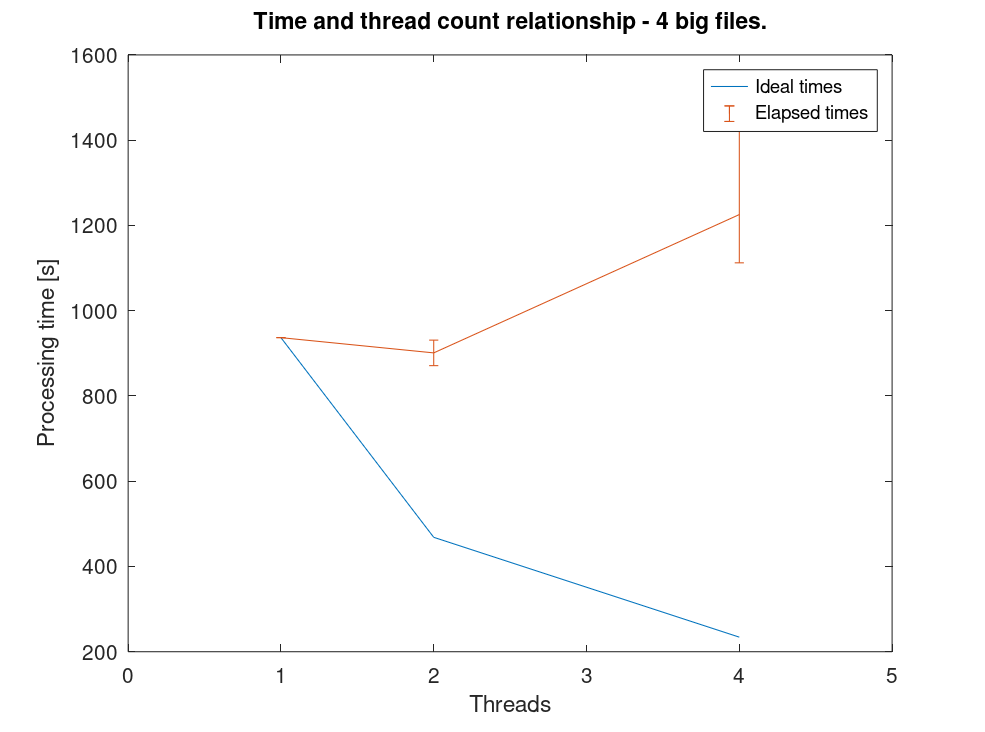
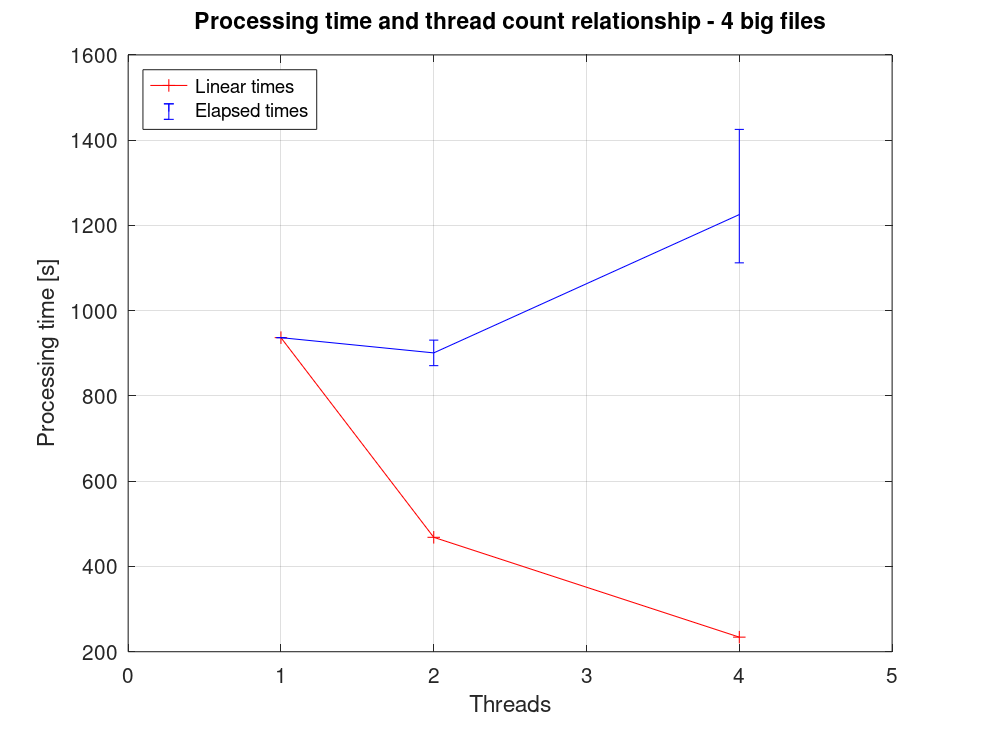
docs: added result calculations and plots

diff --git a/docs/results/graphmake.m b/docs/results/graphmake.m
@@ -1,13 +1,22 @@
 clear all; close all; clc;
 
-#PLOTNAME = "plot-80.png";
-#FILE = "results-80.csv";
-#TITLE = "Time and thread count relationship - 80 small files.";
-#UPPERBOUND = 31;
-PLOTNAME = "plot-4.png";
-FILE = "results-4.csv";
-TITLE = "Time and thread count relationship - 4 big files.";
-UPPERBOUND = 7;
+UPPERBOUND = 31;
+FILE = 'results-80.csv';
+PLOTNAME1 = 'plot-80.png';
+TITLE1 = 'Processing time and thread count relationship - 80 small files';
+PLOTNAME2 = 'plot-speedup-80.png';
+TITLE2 = 'Speedup and thread count relationship - 80 small files';
+##FILE = 'results-4.csv';
+##PLOTNAME1 = 'plot-4.png';
+##TITLE1 = 'Processing time and thread count relationship - 4 big files';
+##PLOTNAME2 = 'plot-speedup-4.png';
+##TITLE2 = 'Speedup and thread count relationship - 4 big files';
+##FILE = 'results-4n.csv';
+##PLOTNAME1 = 'plot-4n.png';
+##TITLE1 = 'Processing time and thread count relationship - 4 big files';
+##PLOTNAME2 = 'plot-speedup-4n.png';
+##TITLE2 = 'Speedup and thread count relationship - 4 big files';
+##UPPERBOUND = 7;
 
 THREAD_COL = uint8(1);
 ELAPSED_HMS_COL = uint8(2);
@@ -20,12 +29,14 @@ CPU_COL = uint8(8);
 
 pkg load io;
 
+
+  
 data = csv2cell(FILE);
 
 threads = cell2mat(data([1:UPPERBOUND], THREAD_COL));
 [~, unique_threads_id] = unique(threads,'first');
 elapsed_times = cell2mat(data([1:UPPERBOUND], ELAPSED_S_COL));
-ideal_times = cell2mat(data([1:UPPERBOUND], IDEAL_S_COL));
+linear_times = cell2mat(data([1:UPPERBOUND], IDEAL_S_COL));
 
 tmp = 1;
 id1 = 0;
@@ -39,6 +50,8 @@ for i = 1:UPPERBOUND
       elapsed_avg(id2) = mean(elapsed_times(ids));
       elapsed_max(id2) = abs(elapsed_avg(id2) - max(elapsed_times(ids)));
       elapsed_min(id2) = abs(elapsed_avg(id2) - min(elapsed_times(ids)));
+      e_max(id2) = max(elapsed_times(ids));
+      e_min(id2) = min(elapsed_times(ids));
       id2++;
       ids = 0;
       id1 = 1;
@@ -48,15 +61,38 @@ endfor;
 elapsed_avg(id2) = mean(elapsed_times(ids));
 elapsed_max(id2) = abs(elapsed_avg(id2) - max(elapsed_times(ids)));
 elapsed_min(id2) = abs(elapsed_avg(id2) - min(elapsed_times(ids)));
+e_max(id2) = max(elapsed_times(ids));
+e_min(id2) = min(elapsed_times(ids));
+
+for i = 1:length(elapsed_avg)
+  speedup(i) = elapsed_avg(1) / elapsed_avg(i);
+  speedup_min(i) = abs(speedup(i) - (elapsed_avg(1) / e_min(i)));
+  speedup_max(i) = abs(speedup(i) - (elapsed_avg(1) / e_max(i))); 
+endfor
+
+for i = 1:UPPERBOUND
+  linear_speedup(i) = linear_times(1)/linear_times(i);
+endfor
 
 fig = figure();
-scatter(threads, ideal_times);
-plot(threads(unique_threads_id), ideal_times(unique_threads_id));
-hold on;
-errorbar(threads(unique_threads_id), elapsed_avg, elapsed_max, elapsed_min, '~');
-xlabel("Threads");
-ylabel("Processing time [s]");
-title(TITLE);
-legend("Ideal times", "Elapsed times");
-print(fig, PLOTNAME);
 
+plot(threads(unique_threads_id), linear_times(unique_threads_id), '-r+');
+hold on;
+errorbar(threads(unique_threads_id), elapsed_avg, elapsed_max, elapsed_min, '~-b');
+xlabel('Threads');
+ylabel('Processing time [s]');
+title(TITLE1);
+legend('Linear times', 'Elapsed times', 'location', 'northwest');
+grid on;
+print(fig, PLOTNAME1);
+hold off;
+
+plot(threads(unique_threads_id), linear_speedup(unique_threads_id), '-r+');
+hold on;
+errorbar(threads(unique_threads_id), speedup, speedup_max, speedup_min, '~-b');
+xlabel('Threads');
+ylabel('Speedup');
+title(TITLE2);
+legend('Linear speedup', 'Actual speedup', 'location', 'northwest');
+grid on;
+print(fig, PLOTNAME2);

diff --git a/docs/results/amdahl.m b/docs/results/amdahl.m
@@ -1,0 +1,17 @@
+threads = [ 1 2 4 8 16 ];
+
+set_size = 80;
+
+time = 4*60*60+13*60+32;
+time_per_item = time/set_size;
+
+for i = 1:length(threads)
+  proportion(i) = 79/80;
+  speedup(i)= 1 / (( 1 - proportion(i)) + (proportion(i)/threads(i)));
+endfor
+
+actual_speedup = [ 1.0000 1.9565 2.8398 3.4613 3.9957 ];
+
+error = actual_speedup - speedup;
+
+disp(error)
